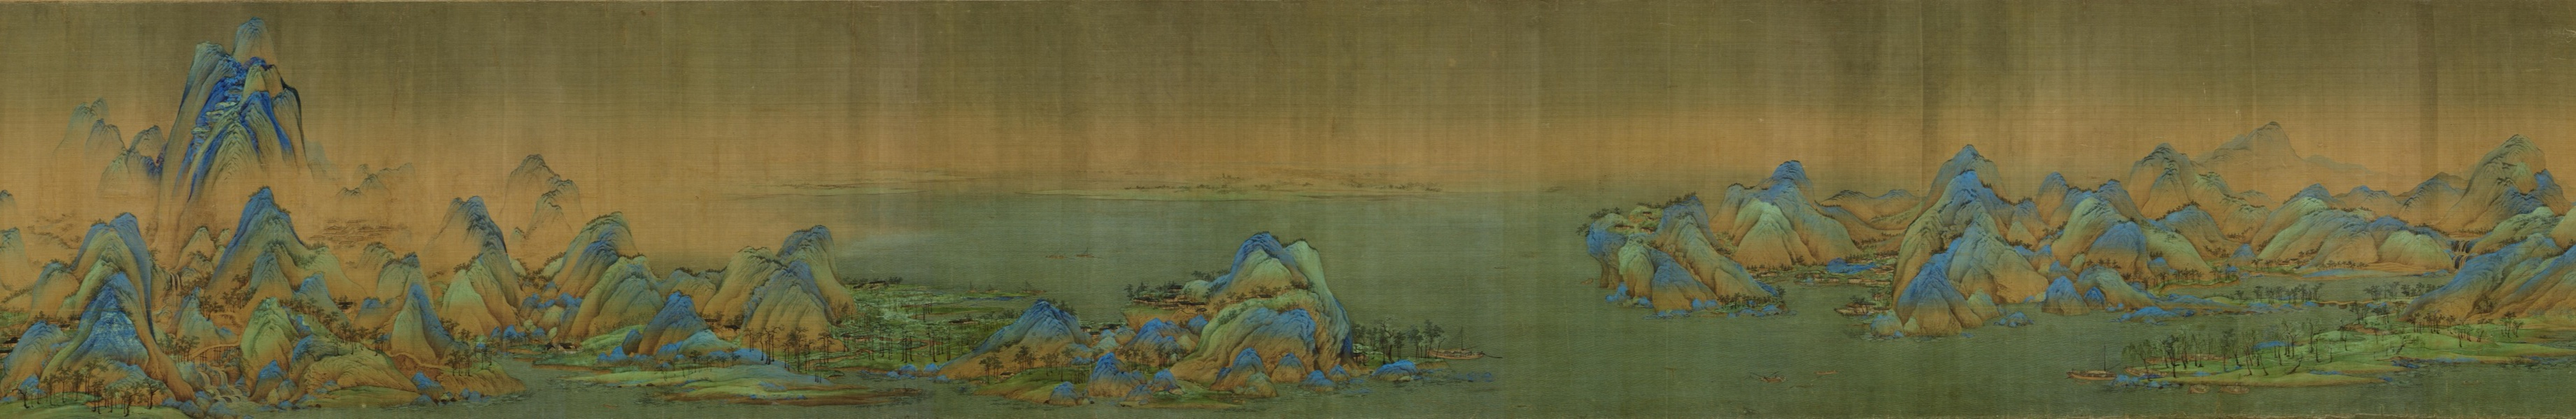
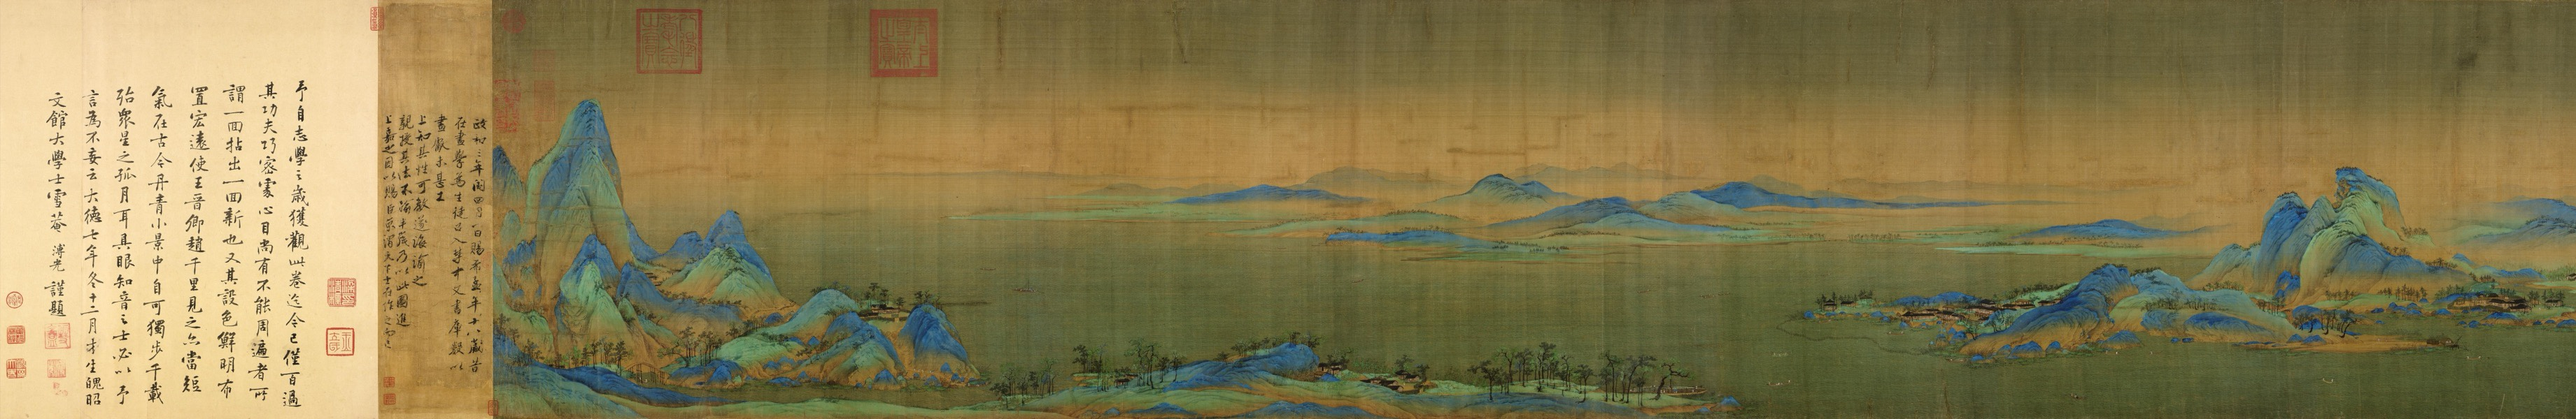
修复卷末：补回被中段重复覆盖的题跋
sips 在两个 cropOffset 均为 0 时会忽略偏移改为居中裁切，导致 tile-00
（卷末最左段）实为画心中段的复制，蔡京题跋与钤印整段缺失。
grid/row-3 同因。改用「水平翻转→非零偏移裁切→翻回」生成，PNG 中间件避免多次有损。

核验：修复后 tile-00 对母本 MAE 0.52（其余瓦片 0.4–0.9），对中段 92.02；
21/21 瓦片全部通过；母本本身 164/164 列与故宫原始瓦片逐像素吻合。

Claude-Session: https://claude.ai/code/session_01L8cghW8ySgQZadsx8YvmxW

diff --git a/README.md b/README.md
@@ -75,6 +75,36 @@ done
 
 Tile widths must sum to exactly 41783; `manifest.js` must be updated to match.
 
+### ⚠ `sips --cropOffset 0 0` is broken — do not use it
+
+When **both** offsets are zero, `sips` silently ignores `--cropOffset` and returns a
+**centre crop** instead of the top-left crop. The loop above therefore produces a
+`tile-00.jpg` containing the middle of the painting rather than its left end. This is
+not hypothetical: it shipped, and it replaced the entire colophon section (蔡京's
+inscription and the imperial seals at the scroll's end) with a duplicate of the middle.
+
+Verified behaviour on macOS 15:
+
+```
+sips -c 1673 2048 --cropOffset 0 0 src.jpg   # -> MAE 1.93 vs the CENTRE, 91.98 vs left edge
+```
+
+Flag order does not help. To crop anchored at x=0, flip horizontally, crop at a non-zero
+offset, then flip back (use PNG intermediates so no extra JPEG generation is added):
+
+```bash
+sips -s format png -f horizontal src.jpg --out flip.png
+sips -s format png -c 1673 2048 --cropOffset 0 $((41783-2048)) flip.png --out c.png
+sips -s format png -f horizontal c.png --out t00.png
+sips -s format jpeg -s formatOptions 86 t00.png --out assets/scroll/tiles/tile-00.jpg
+```
+
+The same trap applies to `assets/grid/row-3.jpg` (the leftmost band).
+
+**Always verify after regenerating** by comparing each tile against the master, and the
+master against the museum's own tiles. A correct tile scores MAE ≈ 0.4–0.9 against the
+master; wrong content scores ≈ 90.
+
 ## Copyright
 
 The painting is in the public domain. The digitised scan is published by the Palace
